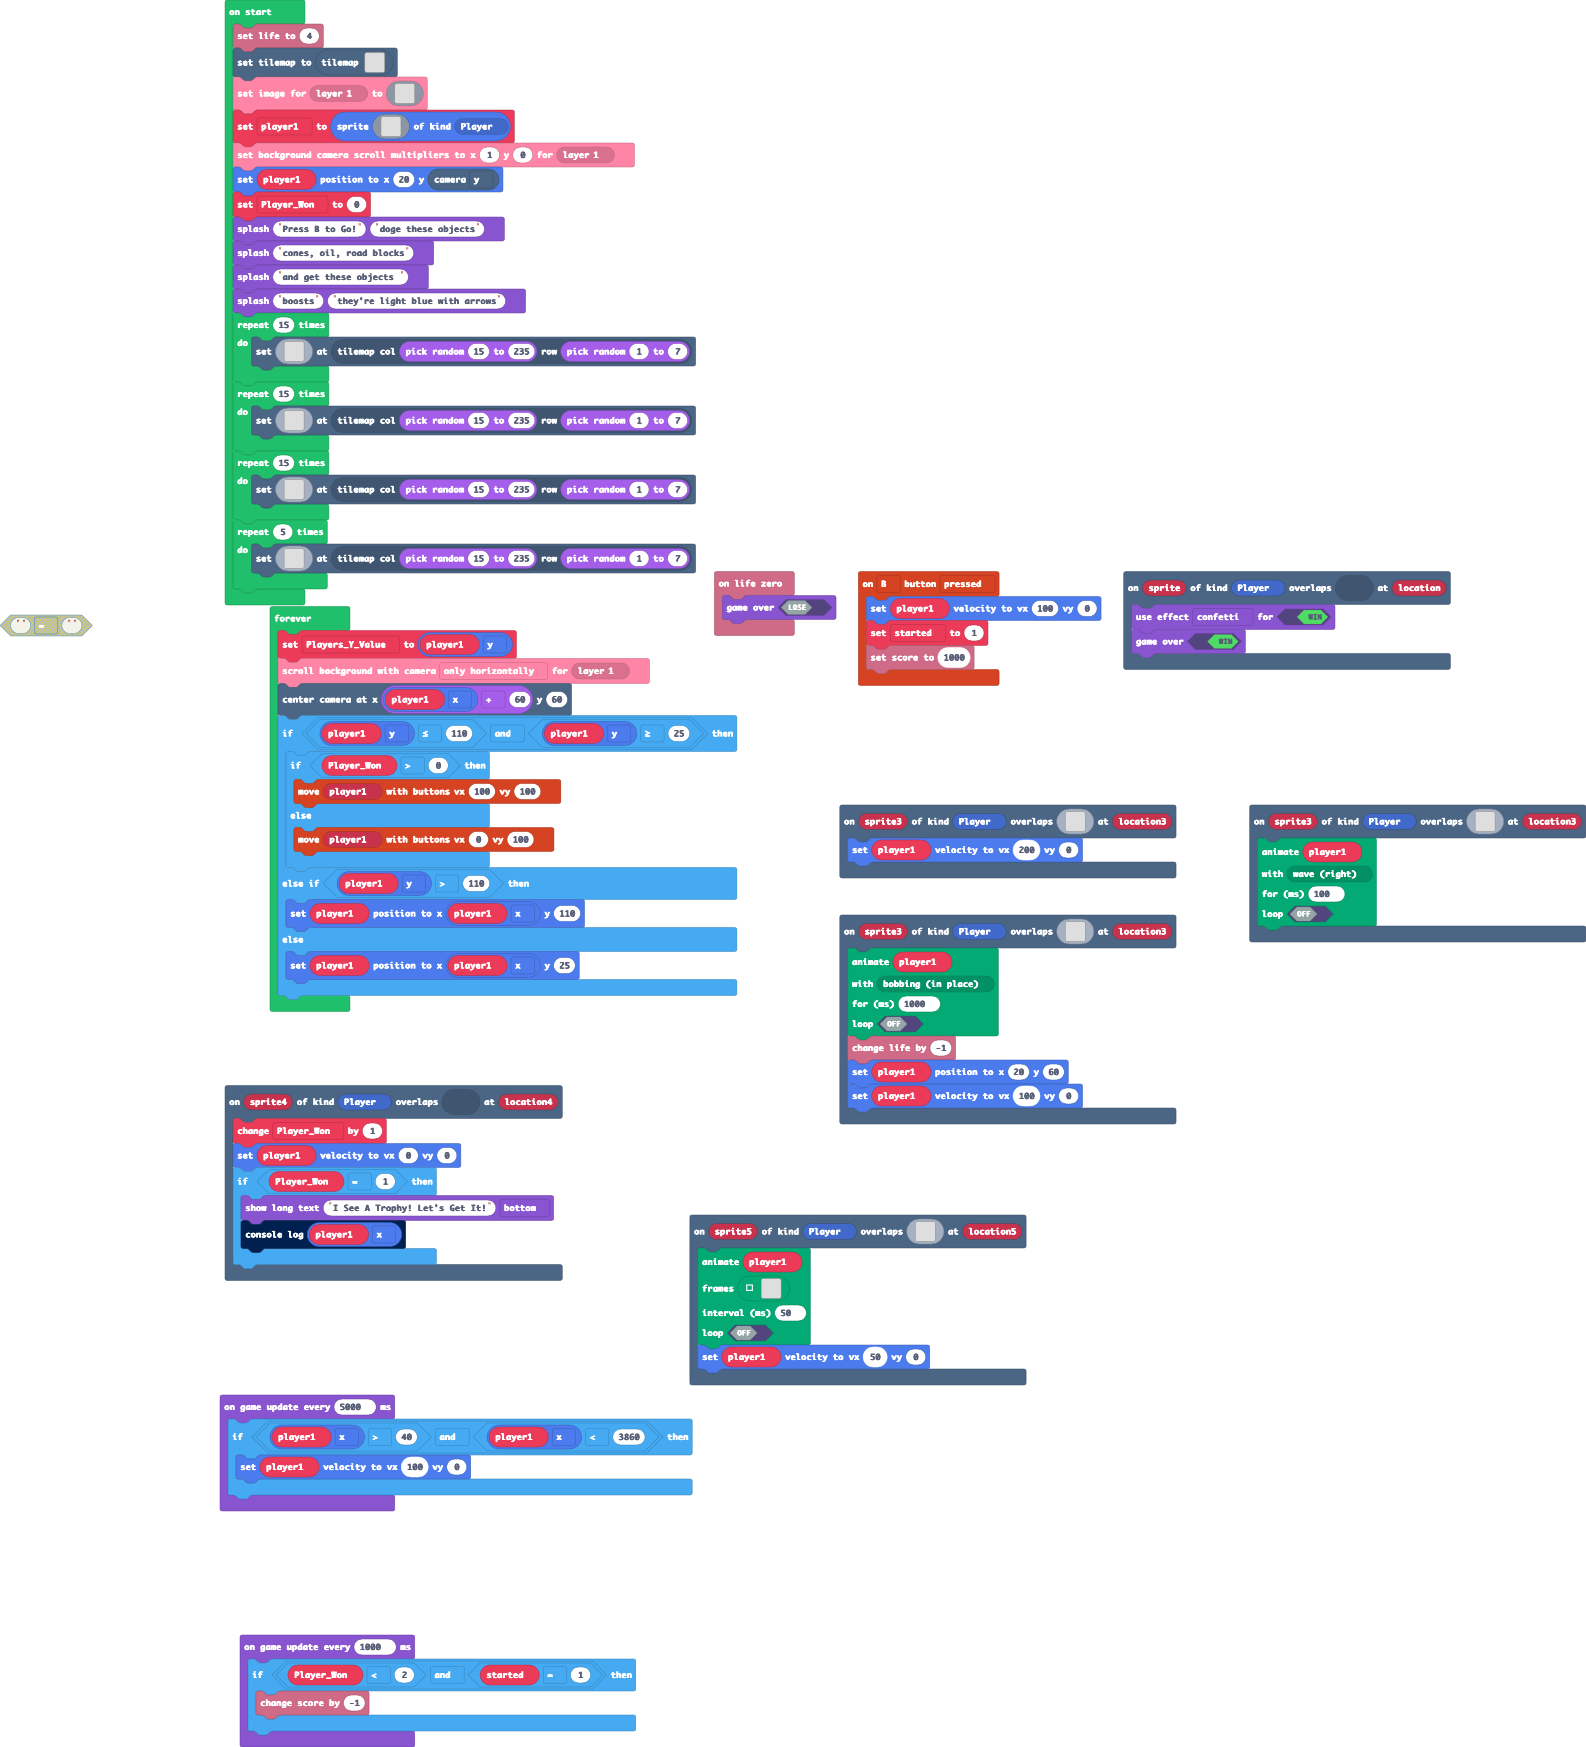
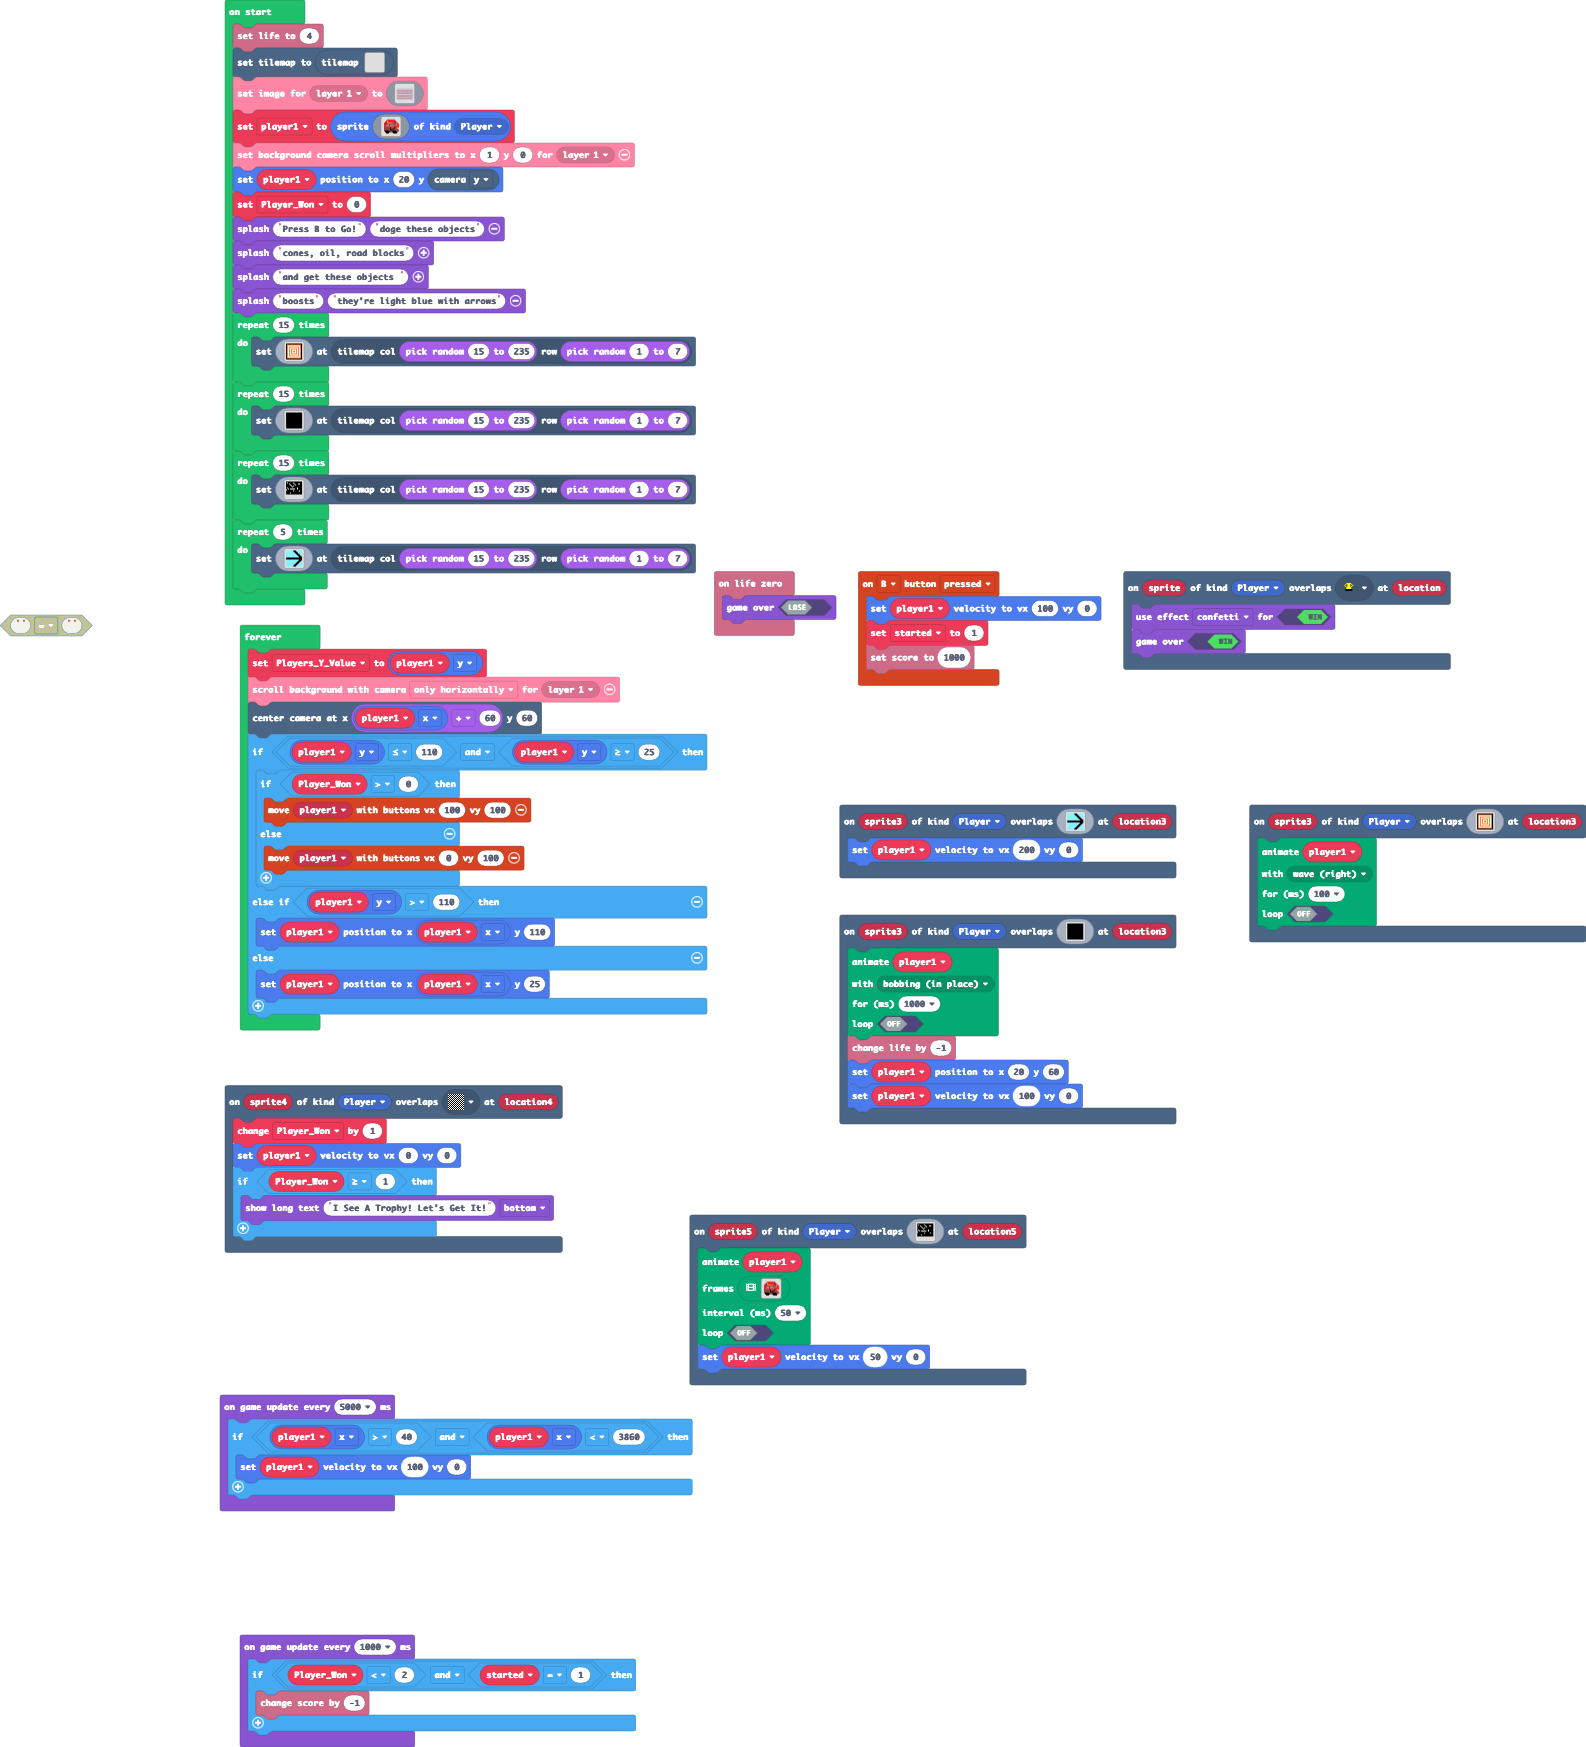
Update main.blocks, main.ts

diff --git a/main.ts b/main.ts
@@ -1,9 +1,8 @@
 scene.onOverlapTile(SpriteKind.Player, assets.tile`myTile2`, function (sprite4, location4) {
     Player_Won += 1
     player1.setVelocity(0, 0)
-    if (Player_Won == 1) {
+    if (Player_Won >= 1) {
         game.showLongText("I See A Trophy! Let's Get It!", DialogLayout.Bottom)
-        console.log(player1.x)
     }
 })
 controller.B.onEvent(ControllerButtonEvent.Pressed, function () {
